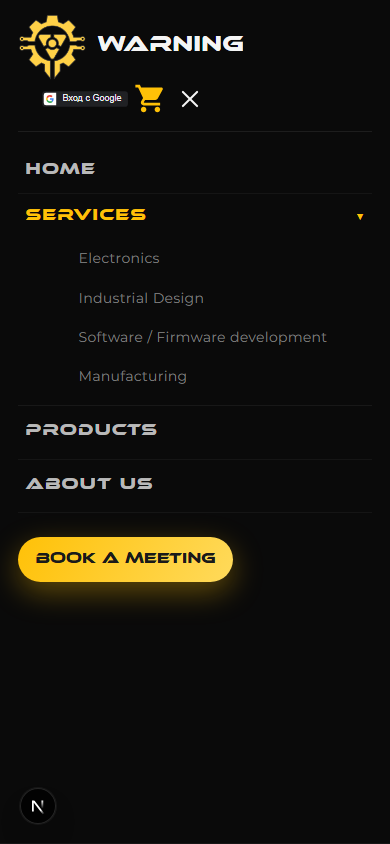
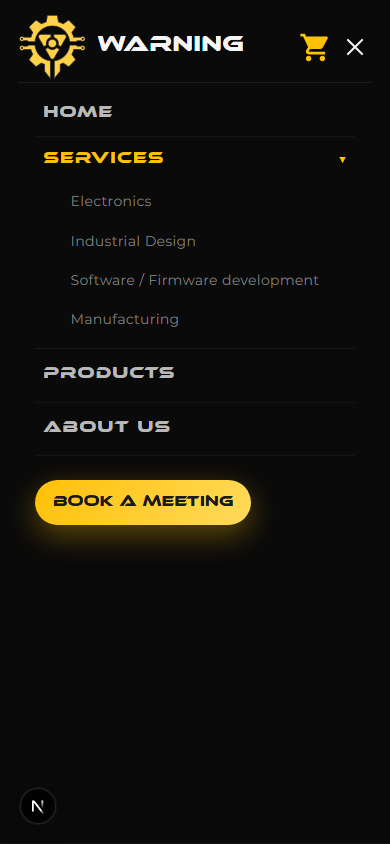
ala bala

diff --git a/src/app/globals.css b/src/app/globals.css
@@ -972,23 +972,29 @@ button.nav__link {
 }
 
 @media (max-width: 768px) {
-  /* ── Closed state: compact bar ── */
+  /* ── Compact nav bar (closed) ── */
   .nav {
     position: sticky;
     top: 0;
     display: flex;
+    flex-wrap: wrap;
     align-items: center;
     padding: 0.75rem 1.1rem;
     gap: 0;
     z-index: 500;
   }
 
-  .nav__brand { flex: 1; }
+  /* brand left, actions right — always same row (order 1 & 2) */
+  .nav__brand {
+    flex: 1;
+    order: 1;
+  }
 
   .nav__actions {
     display: flex;
     align-items: center;
     gap: 0.4rem;
+    order: 2;
   }
 
   .nav__cta--desktop { display: none; }
@@ -998,13 +1004,7 @@ button.nav__link {
     display: none;
   }
 
-  .nav--open .nav__google-btn {
-    display: inline-flex;
-    transform: scale(0.78);
-    transform-origin: right center;
-  }
-
-  /* Hide links by default */
+  /* links hidden by default, wrap to own full-width row below */
   .nav__links {
     display: none;
     order: 3;
@@ -1013,42 +1013,24 @@ button.nav__link {
     align-items: flex-start;
     gap: 0;
     padding: 0.5rem 0 1rem;
-    border-top: 1px solid rgba(255,255,255,0.08);
-    margin-top: 0.5rem;
   }
 
   /* ── Open state: header expands to full screen ── */
   .nav--open {
     position: fixed;
     inset: 0;
-    flex-direction: column;
-    align-items: stretch;
-    justify-content: flex-start;
+    align-content: flex-start;
     background: #0a0a0a;
     overflow-y: auto;
     z-index: 500;
     padding: 0.75rem 1.1rem 2rem;
   }
 
-  .nav--open .nav__brand,
-  .nav--open .nav__actions {
-    flex-shrink: 0;
-  }
-
-  /* Top bar row when open */
-  .nav--open > .nav__brand,
-  .nav--open > .nav__actions {
-    display: flex;
-    align-items: center;
-    flex: none;
-  }
-
   /* Show nav links when open */
   .nav--open .nav__links {
     display: flex;
     border-top: 1px solid rgba(255,255,255,0.08);
-    margin-top: 1rem;
-    padding-top: 1rem;
+    padding: 0.5rem 1.1rem 1rem;
     gap: 0;
   }
 
@@ -1103,7 +1085,7 @@ button.nav__link {
     background: transparent;
     border: none;
     box-shadow: none;
-    padding: 0 0 0.5rem 1rem;
+    padding: 0 0 0.5rem 0;
     gap: 0;
   }
 

diff --git a/screenshot.js b/screenshot.js
@@ -8,6 +8,12 @@ const { chromium } = require('@playwright/test');
   await page.goto('http://localhost:3000', { waitUntil: 'load' });
   await page.evaluate(() => sessionStorage.setItem('intro_shown', '1'));
 
+  // Desktop — home
+  await page.setViewportSize({ width: 1280, height: 800 });
+  await page.goto('http://localhost:3000', { waitUntil: 'networkidle' });
+  await page.waitForTimeout(600);
+  await page.screenshot({ path: 'C:\\GitHub\\warning-machines.com\\screenshot-desktop-nav.png', clip: { x: 0, y: 0, width: 1280, height: 80 } });
+
   // Mobile — home
   await page.setViewportSize({ width: 390, height: 844 });
   await page.goto('http://localhost:3000', { waitUntil: 'networkidle' });

diff --git a/src/components/NavBar.tsx b/src/components/NavBar.tsx
@@ -115,7 +115,6 @@ export function NavBar() {
         <Link className="button button--primary nav__cta--mobile" href="/quote-form" onClick={closeNav}>Book a meeting</Link>
       </nav>
       <div className="nav__actions">
-        {/* Render nothing auth-related until hydration complete to prevent mismatch */}
         {authLoading ? null : user ? (
           <div className="nav__user" ref={menuRef}>
             <button className="nav__user-btn nav__user-avatar" onClick={() => setMenuOpen((open) => !open)} aria-haspopup="true" aria-expanded={menuOpen}>
